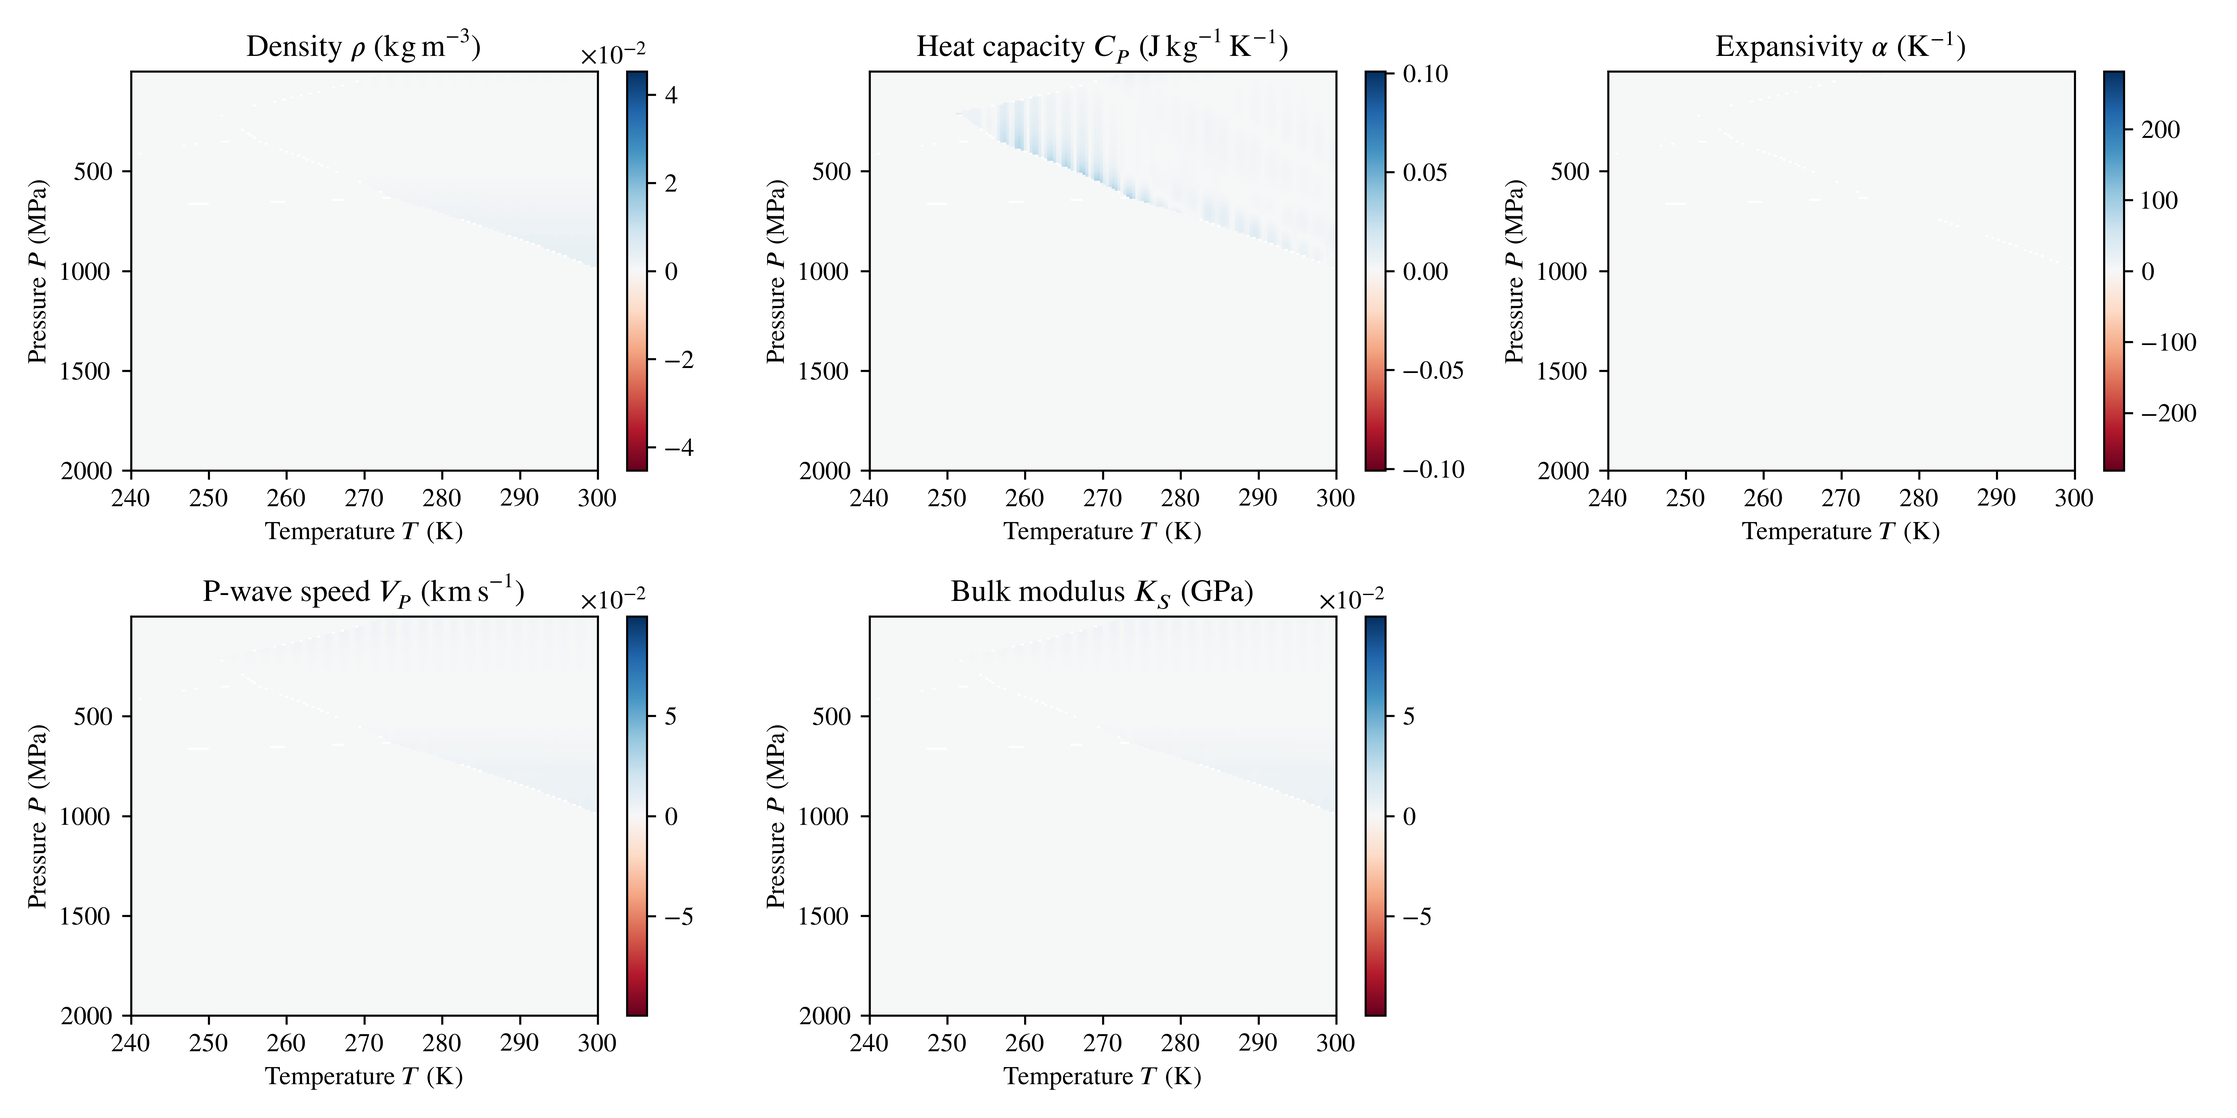
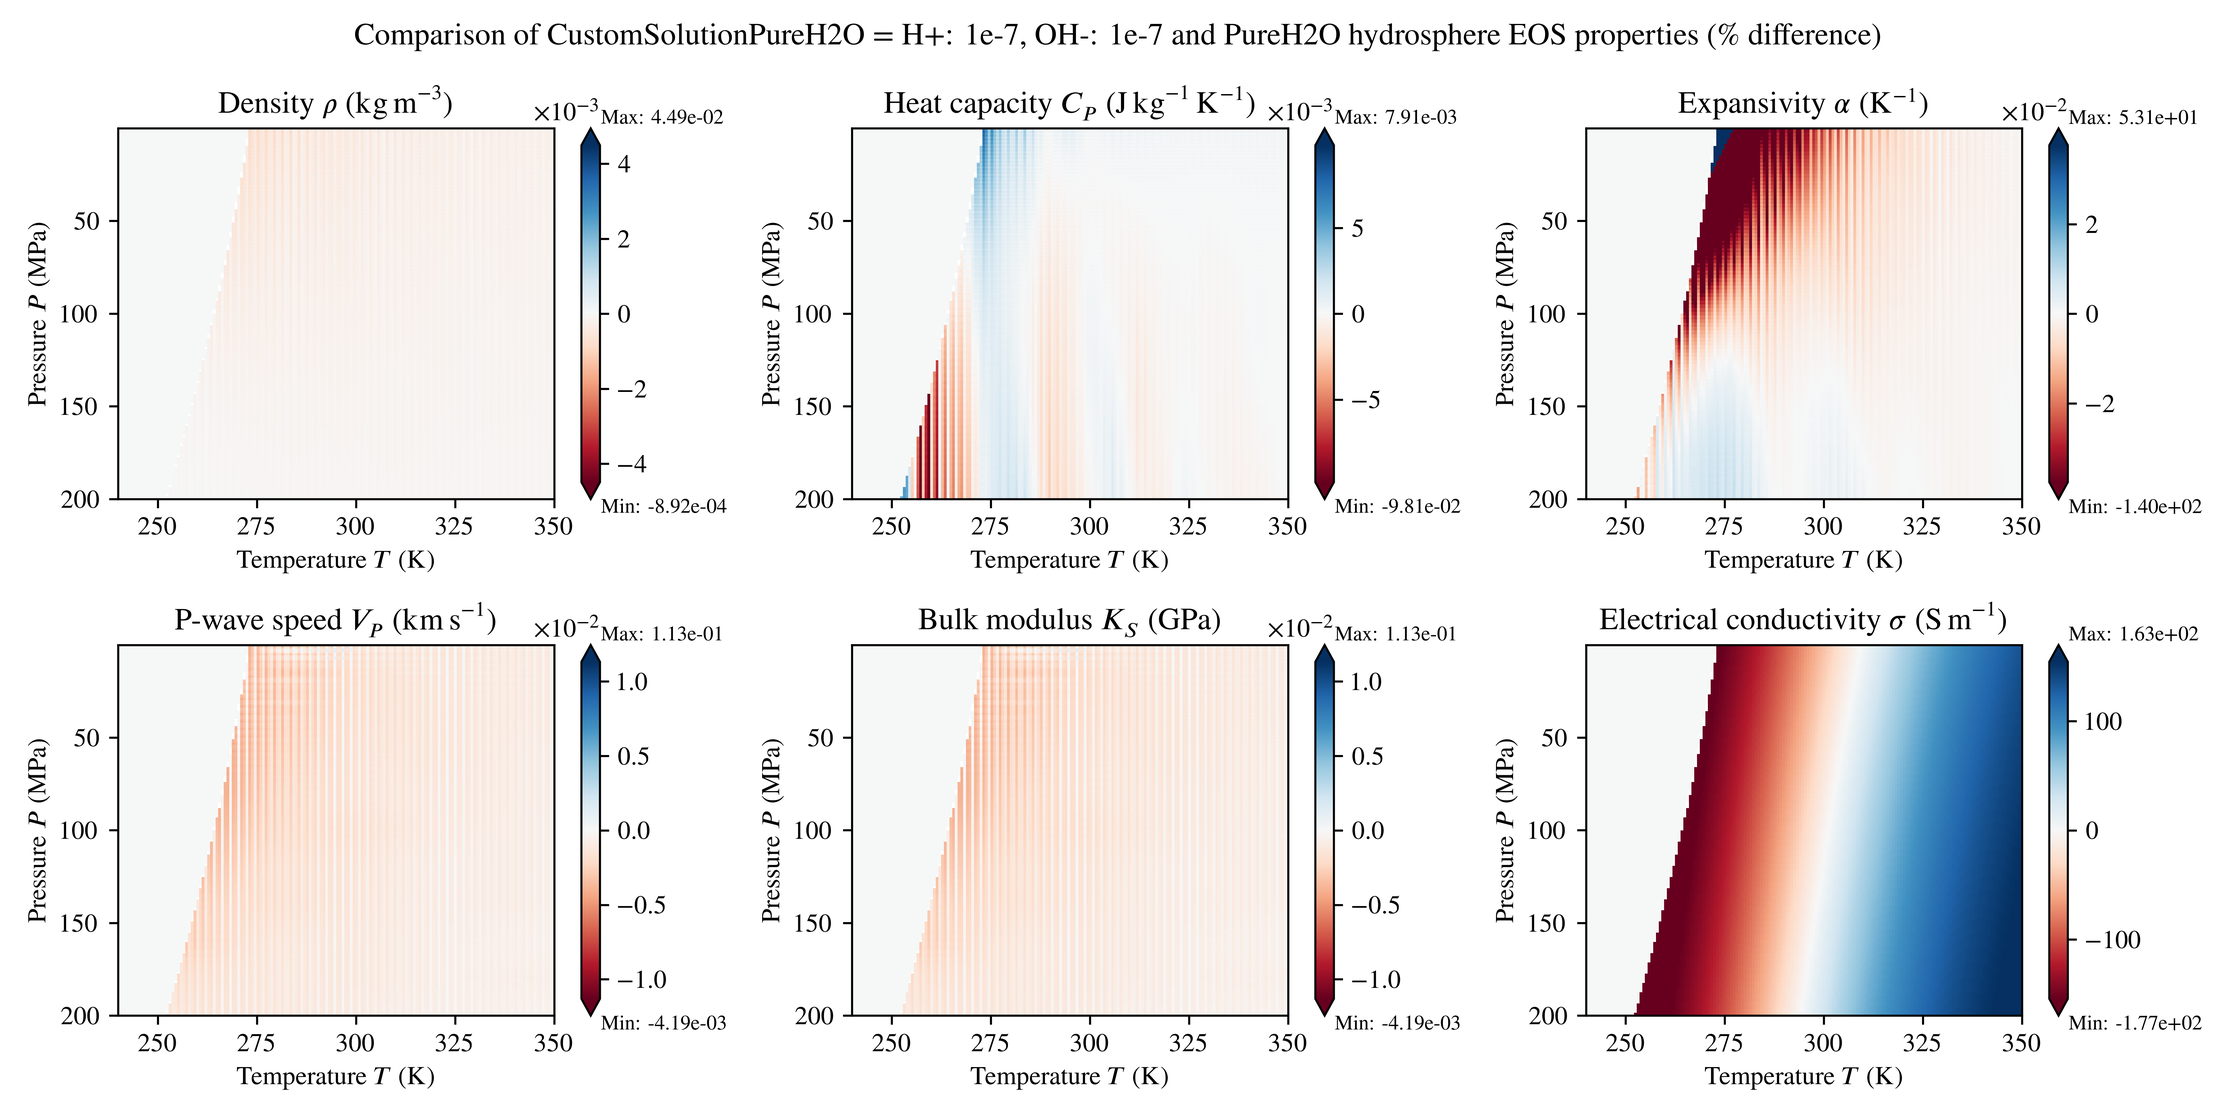
Plotting updates. Comparison properties plot now plots 95 percentile data to improve readability.

diff --git a/PlanetProfile/Plotting/ProfilePlots.py b/PlanetProfile/Plotting/ProfilePlots.py
@@ -1173,16 +1173,30 @@ def PlotExploreOgram(ExplorationList, Params):
         z[INVALID] = np.nan
         # Return data to original organization
         z = np.reshape(z, zShape)
-        mesh = ax.pcolormesh(x, y, z, shading='auto', cmap=Color.cmap['default'], rasterized=FigMisc.PT_RASTER)
+        
+        # Calculate valid data range for colorbar
+        zValid = z[z == z]  # Exclude NaNs
+        if np.size(zValid) > 0:
+            vmin = np.min(zValid)
+            vmax = np.max(zValid)
+        else:
+            vmin = vmax = None
+            
+        mesh = ax.pcolormesh(x, y, z, shading='auto', cmap=Color.cmap['default'], 
+                           vmin=vmin, vmax=vmax, rasterized=FigMisc.PT_RASTER)
         cont = ax.contour(x, y, z, colors='black')
         lbls = plt.clabel(cont, fmt=FigLbl.cfmt)
         cbar = fig.colorbar(mesh, ax=ax, format=FigLbl.cbarFmt)
         # Add the min and max values to the colorbar for reading convenience
         # We compare z values to z values to exclude nans from the max finding,
         # exploiting the fact that nan == nan is False.
-        zValid = z[z == z]
         if np.size(zValid) > 0:
-            new_ticks = np.insert(np.append(cbar.get_ticks(), np.max(zValid)), 0, np.min(zValid))
+            mesh.set_clim(vmin=vmin, vmax=vmax)
+            # Filter existing ticks to only include those within valid data range
+            existing_ticks = cbar.get_ticks()
+            valid_ticks = existing_ticks[(existing_ticks >= vmin) & (existing_ticks <= vmax)]
+            # Add min and max values to the filtered ticks
+            new_ticks = np.insert(np.append(valid_ticks, vmax), 0, vmin)
             cbar.set_ticks(np.unique(new_ticks))
         cbar.set_label(FigLbl.cbarLabelExplore, size=12)
 
@@ -1255,7 +1269,7 @@ def PlotExploreOgram(ExplorationList, Params):
             thisz = Exploration.__getattribute__(Exploration.zName) * FigLbl.zMultExplore
             # Only keep data points for which a valid model was determined
             zShape = np.shape(thisz)
-            thisz = np.reshape(thisz, -1)
+            thisz = np.reshape(thisz, -1).astype(np.float64)
             INVALID = np.logical_not(np.reshape(Exploration.VALID, -1))
             thisz[INVALID] = np.nan
             # Return data to original organization
@@ -1266,31 +1280,56 @@ def PlotExploreOgram(ExplorationList, Params):
                 (np.issubdtype(x_values.dtype, np.number) and np.allclose(x_values[:, 0], initial_x_values[:, 0], equal_nan=True)) or
                 (not np.issubdtype(x_values.dtype, np.number) and np.array_equal(x_values[:, 0], initial_x_values[:, 0]))
             ):
-                # x arrays match, concatenate along y-axis (axis=0)
-                axis = 1
+                # x arrays match, concatenate along y-axis (axis=1)
+                # Find insertion point to maintain monotonic order
+                y_existing = y[0, :]
+                y_new_start = new_y[0, 0]
+                insert_idx = np.searchsorted(y_existing, y_new_start)
+                # Insert new data at the appropriate position
+                x = np.concatenate([x[:, :insert_idx], new_x, x[:, insert_idx:]], axis=1)
+                y = np.concatenate([y[:, :insert_idx], new_y, y[:, insert_idx:]], axis=1)
+                z = np.concatenate([z[:, :insert_idx], thisz, z[:, insert_idx:]], axis=1)
             elif new_y.shape[1] == y.shape[1] and (
                 (np.issubdtype(y_values.dtype, np.number) and np.allclose(y_values[0, :], initial_y_values[0, :], equal_nan=True)) or
                 (not np.issubdtype(y_values.dtype, np.number) and np.array_equal(y_values[0, :], initial_y_values[0, :]))
             ):
-                # y arrays match, concatenate along x-axis (axis=1)
-                axis = 0
+                # y arrays match, concatenate along x-axis (axis=0)
+                # Find insertion point to maintain monotonic order
+                x_existing = x[:, 0]
+                x_new_start = new_x[0, 0]
+                insert_idx = np.searchsorted(x_existing, x_new_start)
+                # Insert new data at the appropriate position
+                x = np.concatenate([x[:insert_idx, :], new_x, x[insert_idx:, :]], axis=0)
+                y = np.concatenate([y[:insert_idx, :], new_y, y[insert_idx:, :]], axis=0)
+                z = np.concatenate([z[:insert_idx, :], thisz, z[insert_idx:, :]], axis=0)
             else:
                 log.warning('The exploreogram comparison plot cannot be made because the x or y axes are not the same. Skipping the comparison plot.')
                 break
             
-            # Concatenate arrays along determined axis
-            x = np.concatenate([x, new_x], axis=axis)
-            y = np.concatenate([y, new_y], axis=axis)
-            z = np.concatenate([z, thisz], axis=axis)
+        # Calculate valid data range for colorbar
+        zValid = z[z == z]  # Exclude NaNs
+        if np.size(zValid) > 0:
+            vmin = np.min(zValid)
+            vmax = np.max(zValid)
+        else:
+            vmin = vmax = None
             
-        mesh = ax.pcolormesh(x, y, z, shading='auto', cmap=Color.cmap['default'], rasterized=FigMisc.PT_RASTER)
+        mesh = ax.pcolormesh(x, y, z, shading='auto', cmap=Color.cmap['default'], 
+                           vmin=vmin, vmax=vmax, rasterized=FigMisc.PT_RASTER)
         cont = ax.contour(x, y, z, colors='black')
         lbls = plt.clabel(cont, fmt=FigLbl.cfmt)
         cbar = fig.colorbar(mesh, ax=ax, format=FigLbl.cbarFmt)
-        # Append the max value to the colorbar for reading convenience
+        # Add the min and max values to the colorbar for reading convenience
         # We compare z values to z values to exclude nans from the max finding,
         # exploiting the fact that nan == nan is False.
-        cbar.set_ticks(np.append(cbar.get_ticks(), np.max(z[z == z])))
+        if np.size(zValid) > 0:
+            mesh.set_clim(vmin=vmin, vmax=vmax)
+            # Filter existing ticks to only include those within valid data range
+            existing_ticks = cbar.get_ticks()
+            valid_ticks = existing_ticks[(existing_ticks >= vmin) & (existing_ticks <= vmax)]
+            # Add min and max values to the filtered ticks
+            new_ticks = np.insert(np.append(valid_ticks, vmax), 0, vmin)
+            cbar.set_ticks(np.unique(new_ticks))
         cbar.set_label(FigLbl.cbarLabelExplore, size=12)
 
         plt.tight_layout()
@@ -1368,15 +1407,14 @@ def PlotExploreOgramLoveComparison(ExplorationList, Params):
         for comparison against canonical k2/delta exploration plots.
     """
 
-    ExplorationList[0].xName = 'delta_love_number_relation'
-    ExplorationList[0].yName = 'k_love_number'
-    ExplorationList[0].zName = 'oceanComp'
-    FigLbl.SetExploration(ExplorationList[0].bodyname, ExplorationList[0].xName, ExplorationList[0].yName,
-                          ExplorationList[0].zName)
-    if not FigMisc.TEX_INSTALLED:
-        FigLbl.StripLatex()
-
     for Exploration in (ex for ex in ExplorationList if not ex.NO_H2O):
+        Exploration.xName = 'delta_love_number_relation'
+        Exploration.yName = 'k_love_number'
+        Exploration.zName = 'oceanComp'
+        FigLbl.SetExploration(Exploration.bodyname, Exploration.xName, Exploration.yName, Exploration.zName)
+        if not FigMisc.TEX_INSTALLED:
+            FigLbl.StripLatex()
+
         fig = plt.figure(figsize=FigSize.explore)
         grid = GridSpec(1, 1)
         ax = fig.add_subplot(grid[0, 0])
@@ -1404,11 +1442,11 @@ def PlotExploreOgramLoveComparison(ExplorationList, Params):
         for z_val in unique_z:
             TminMax_K = {}
             Tall_K = np.reshape(Exploration.__getattribute__('Tb_K'), -1)
-            TminMax_K[z_val] = [np.min(Tall_K), np.max(Tall_K)]
+            TminMax_K[z_val] = [np.nanmin(Tall_K), np.nanmax(Tall_K)]
             # Set style options
             if FigMisc.MANUAL_HYDRO_COLORS:
                 Color.Tbounds_K = TminMax_K[z_val]
-                thisColor = Color.cmap[z_val](Color.GetNormT(270))
+                thisColor = Color.cmap[z_val](Color.GetNormT(np.nanmax(Tall_K)))
             else:
                 thisColor = None
             indices = np.where(z == z_val)[0]
@@ -1447,7 +1485,7 @@ def PlotExploreOgramLoveComparison(ExplorationList, Params):
                          cmap='Greys',  # Use your chosen colormap
                          marker=Style.MS_Induction, s=Style.MW_Induction ** 2, edgecolors='black', linewidths = 0.5, zorder = 3)
         if np.size(x) > 0:
-            ax.set_xlim([0, 0.16])
+            ax.set_xlim([0, np.max(x) + 0.01])
         if np.size(y) > 0:
             # Account for error bars when setting y limits
             if FigMisc.SHOW_ERROR_BARS:
@@ -1464,5 +1502,151 @@ def PlotExploreOgramLoveComparison(ExplorationList, Params):
         fig.savefig(Params.FigureFiles.exploreLoveComparison, format=FigMisc.figFormat, dpi=FigMisc.dpi, metadata=FigLbl.meta)
         log.debug(f'Plot saved to file: {Params.FigureFiles.exploreLoveComparison}')
         plt.close()
+
+    # Plot combination
+    if Params.COMPARE and np.size(ExplorationList) > 1:
+        # Filter out explorations with no H2O
+        ValidExplorations = [ex for ex in ExplorationList if not ex.NO_H2O]
+        
+        if len(ValidExplorations) > 1:
+            # Set up exploration parameters for the first valid exploration
+            Exploration = ValidExplorations[0]
+            Exploration.xName = 'delta_love_number_relation'
+            Exploration.yName = 'k_love_number'
+            Exploration.zName = 'oceanComp'
+            FigLbl.SetExploration(Exploration.bodyname, Exploration.xName, Exploration.yName, Exploration.zName)
+            if not FigMisc.TEX_INSTALLED:
+                FigLbl.StripLatex()
+
+            fig = plt.figure(figsize=FigSize.explore)
+            grid = GridSpec(1, 1)
+            ax = fig.add_subplot(grid[0, 0])
+            if Style.GRIDS:
+                ax.grid()
+                ax.set_axisbelow(True)
+
+            if Params.TITLES:
+                fig.suptitle(FigLbl.explorationLoveComparisonTitle)
+            ax.set_xlabel(FigLbl.xLabelExplore)
+            ax.set_ylabel(FigLbl.yLabelExplore)
+            # Override standard settings for this type of plot
+            ax.set_xscale('linear')
+            ax.set_yscale('linear')
+
+            # Collect data from all explorations
+            all_x = []
+            all_y = []
+            all_z = []
+            all_ice_thickness = []
+            exploration_labels = []
+            
+            for i, Exploration in enumerate(ValidExplorations):
+                x = np.reshape(Exploration.__getattribute__(Exploration.xName) * FigLbl.xMultExplore, -1)
+                y = np.reshape(Exploration.__getattribute__(Exploration.yName) * FigLbl.yMultExplore, -1)
+                z = np.reshape(Exploration.__getattribute__(Exploration.zName), -1)
+                # Only keep data points for which a valid model was determined
+                VALID = np.logical_not(np.logical_or(np.isnan(x), np.isnan(y)))
+                x, y, z = x[VALID], y[VALID], z[VALID]
+                
+                # Get ice thickness data
+                ice_thickness = np.reshape(Exploration.__getattribute__('zb_approximate_km'), -1)
+                ice_thickness = ice_thickness[VALID]
+                
+                # Add exploration identifier
+                exploration_id = np.full(len(x), i)
+                
+                all_x.extend(x)
+                all_y.extend(y)
+                all_z.extend(z)
+                all_ice_thickness.extend(ice_thickness)
+                exploration_labels.extend(exploration_id)
+
+            # Convert to numpy arrays
+            all_x = np.array(all_x)
+            all_y = np.array(all_y)
+            all_z = np.array(all_z)
+            all_ice_thickness = np.array(all_ice_thickness)
+            exploration_labels = np.array(exploration_labels)
+
+            # Group by unique z values and plot connecting lines
+            unique_z = np.unique(all_z)
+            plotted_labels = set()  # Keep track of which labels have been plotted
+            
+            for z_val in unique_z:
+                z_indices = np.where(all_z == z_val)[0]
+                
+                # Collect all points for this z value across all explorations
+                x_line, y_line = all_x[z_indices], all_y[z_indices]
+                
+                # Sort points by x for connected lines
+                sorted_idx = np.argsort(x_line)
+                x_line = x_line[sorted_idx]
+                y_line = y_line[sorted_idx]
+                
+                # Set style options (use first exploration's temperature bounds)
+                TminMax_K = {}
+                Tall_K = np.reshape(ValidExplorations[0].__getattribute__('Tb_K'), -1)
+                TminMax_K[z_val] = [np.nanmin(Tall_K), np.nanmax(Tall_K)]
+                
+                if FigMisc.MANUAL_HYDRO_COLORS:
+                    Color.Tbounds_K = TminMax_K[z_val]
+                    thisColor = Color.cmap[z_val](Color.GetNormT(np.nanmax(Tall_K)))
+                else:
+                    thisColor = None
+                
+                if 'CustomSolution' in z_val:
+                    z_label = z_val.split('=')[0].replace('CustomSolution', '')
+                else:
+                    z_label = z_val
+                
+                # Only add label if this composition hasn't been plotted yet
+                line_label = z_label if z_label not in plotted_labels else None
+                if line_label:
+                    plotted_labels.add(z_label)
+                
+                # Plot line for each z group combining all explorations
+                ax.plot(x_line, y_line, color=thisColor, label=line_label, linewidth=2, zorder=2)
+                
+                # Add error bars if enabled
+                if FigMisc.SHOW_ERROR_BARS:
+                    ax.errorbar(x_line, y_line, yerr=FigMisc.ERROR_BAR_MAGNITUDE, fmt='none', color=thisColor, capsize=3)
+
+            # TODO Make these param options
+            MANUAL_ICE_THICKNESS_COLORS = True
+            if MANUAL_ICE_THICKNESS_COLORS and len(all_ice_thickness) > 0:
+                # Set bounds for normalization (min and max of ice thickness across all explorations)
+                Tbound_lower = np.min(all_ice_thickness)
+                Tbound_upper = np.max(all_ice_thickness)
+                
+                # Get normalized values using GetNormT
+                norm_thickness = Color.GetNormT(all_ice_thickness, Tbound_lower, Tbound_upper)
+            else:
+                norm_thickness = None
+
+            # Plot scatter points using the same marker for all explorations
+            ax.scatter(all_x, all_y, c=norm_thickness,
+                      cmap='Greys', marker=Style.MS_Induction, s=Style.MW_Induction ** 2, 
+                      edgecolors='black', linewidths=0.5, zorder=3)
+
+            # Set axis limits
+            if np.size(all_x) > 0:
+                ax.set_xlim([0, np.max(all_x) + 0.01])
+            if np.size(all_y) > 0:
+                # Account for error bars when setting y limits
+                if FigMisc.SHOW_ERROR_BARS:
+                    error_magnitude = FigMisc.ERROR_BAR_MAGNITUDE
+                    y_min_with_error = np.min(all_y) - error_magnitude
+                    y_max_with_error = np.max(all_y) + error_magnitude
+                    ax.set_ylim([np.floor(y_min_with_error*100)/100, np.ceil(y_max_with_error*100)/100])
+                else:
+                    ax.set_ylim([np.floor(np.min(all_y)*100)/100, np.ceil(np.max(all_y)*100)/100])
+
+            if Params.LEGEND:
+                ax.legend(title="Ocean Composition", fontsize=10, title_fontsize=12)
+
+            plt.tight_layout()
+            fig.savefig(Params.FigureFiles.exploreLoveComparison, format=FigMisc.figFormat, dpi=FigMisc.dpi, metadata=FigLbl.meta)
+            log.debug(f'Combined Love comparison plot saved to file: {Params.FigureFiles.exploreLoveComparison}')
+            plt.close()
 
     return

diff --git a/PlanetProfile/Plotting/PTPlots.py b/PlanetProfile/Plotting/PTPlots.py
@@ -924,19 +924,35 @@ def PlotPvThydro(PlanetList, Params):
                 # Calculate a more reasonable range using 95th percentile to avoid extreme outliers
                 valid_data = prop_data_to_plot[~np.isnan(prop_data_to_plot)]
                 if len(valid_data) > 0:
-                    data_95th = np.nanpercentile(np.abs(valid_data), 95)
-                    if prop.prop == 'alpha': # Alpha can sometimes show extremely high differences at borders, so we only use 95th percentile
-                        display_max = data_95th
+                    # Use 95th percentile for both positive and negative values
+                    vmin_95th = np.nanpercentile(valid_data, 5)   # 5th percentile for lower bound
+                    vmax_95th = np.nanpercentile(valid_data, 95)  # 95th percentile for upper bound
+
+                    # Adjust vcenter based on whether data crosses zero
+                    if vmin_95th >= 0:
+                        # All positive data - center at middle of range
+                        vcenter = (vmin_95th + vmax_95th) / 2
+                    elif vmax_95th <= 0:
+                        # All negative data - center at middle of range
+                        vcenter = (vmin_95th + vmax_95th) / 2
                     else:
-                        display_max = max(data_95th, abs_max * 0.1)  # Ensure at least 10% of full range
+                        # Data crosses zero - keep center at 0
+                        vcenter = 0
+                        # Make range symmetric around zero for better visualization
+                        abs_display_max = max(abs(vmin_95th), abs(vmax_95th))
+                        vmin_95th = -abs_display_max
+                        vmax_95th = abs_display_max
+                    
                     data_min = np.nanmin(prop_data_to_plot)
                     data_max = np.nanmax(prop_data_to_plot)
                 else:
-                    display_max = abs_max
+                    vmin_95th = -abs_max
+                    vmax_95th = abs_max
+                    vcenter = 0
                     data_min = -abs_max
                     data_max = abs_max
                 
-                norm = TwoSlopeNorm(vmin=-display_max, vcenter=0, vmax=display_max)
+                norm = TwoSlopeNorm(vmin=-vmax_95th, vcenter=vcenter, vmax=vmax_95th)
             pcolormesh = ax.pcolormesh(T_K, P_MPa * FigLbl.PmultHydro, prop_data_to_plot, cmap=cmap,
                                        rasterized=FigMisc.PT_RASTER, norm=norm)
             # Add colorbar with extend to indicate values beyond visible range

diff --git a/PlanetProfile/Thermodynamics/Reaktoro/WIP/Ocean_Properties_Benchmarking/Ocean_Properties_Benchmark.py b/PlanetProfile/Thermodynamics/Reaktoro/WIP/Ocean_Properties_Benchmarking/Ocean_Properties_Benchmark.py
@@ -22,7 +22,7 @@ from PlanetProfile.Plotting.PTPlots import PlotPvThydro
 # Set default figure parameters
 FigMisc.PminHydro_MPa = 0.1
 FigMisc.PmaxHydro_MPa = 200
-FigMisc.TminHydro_K = 240
+FigMisc.TminHydro_K = 250
 FigMisc.TmaxHydro_K = 350
 FigMisc.SHOW_GEOTHERM = False
 FigMisc.dpi = 600
